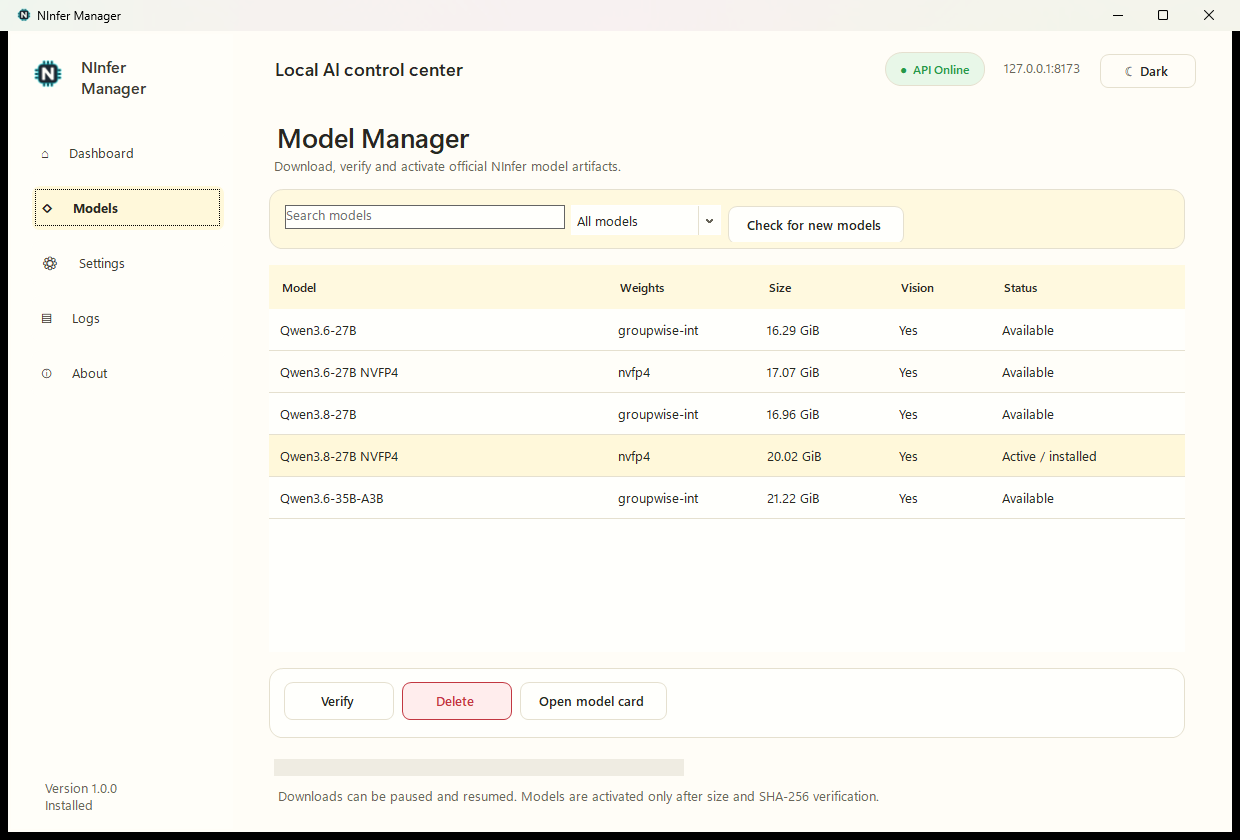
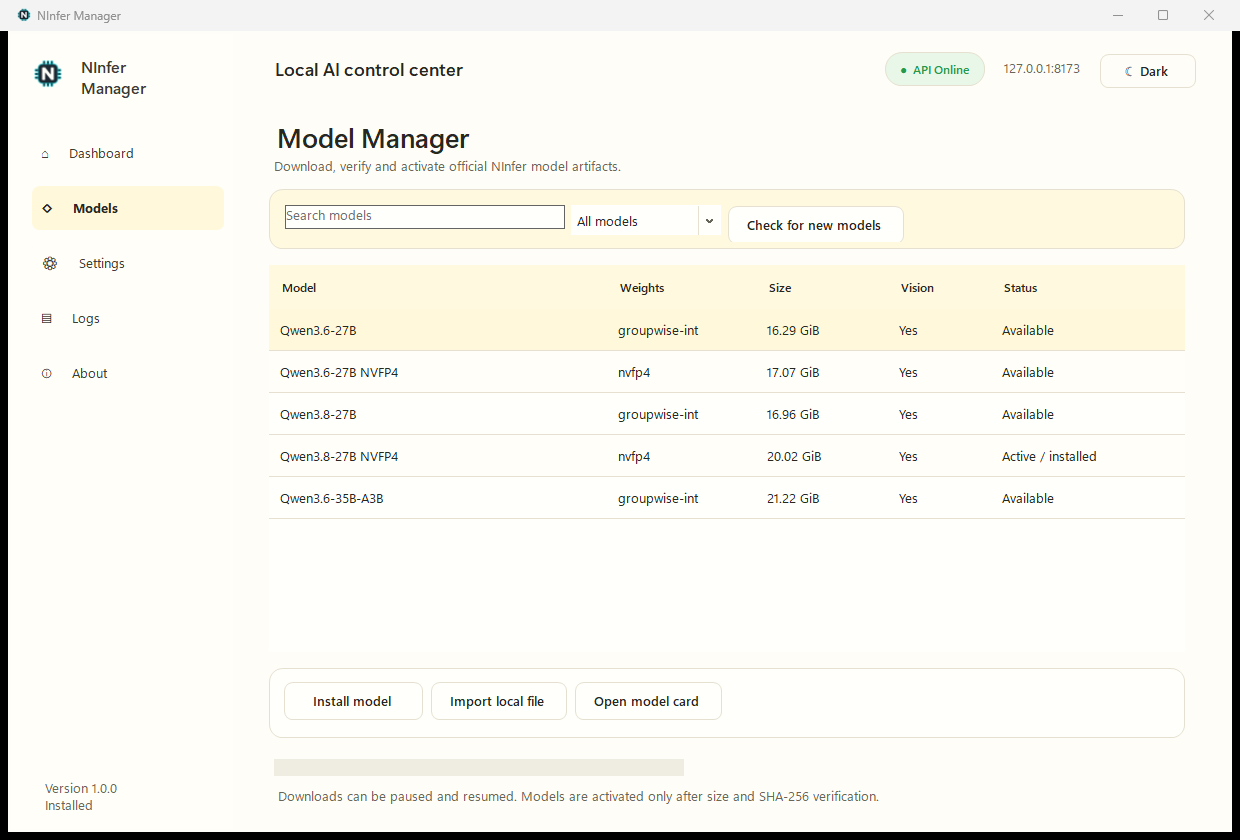
Expose model details before download

diff --git a/src/NInferManager/MainForm.cs b/src/NInferManager/MainForm.cs
@@ -49,6 +49,7 @@ internal sealed class MainForm : Form
     private readonly ProgressBar _modelProgress = new ThemedProgressBar { Dock = DockStyle.Fill, Height = 12 };
     private readonly Label _modelProgressText = UiTheme.Role(new Label { Dock = DockStyle.Fill, TextAlign = ContentAlignment.MiddleLeft, AutoEllipsis = true }, ThemeRole.MutedText);
     private readonly Button _installButton = Button("Install / Resume");
+    private readonly Button _importButton = Button("Import local file");
     private readonly Button _cancelDownloadButton = Button("Pause", false);
     private readonly Button _setActiveButton = Button("Set active");
     private readonly Button _verifyButton = Button("Verify");
@@ -335,6 +336,7 @@ internal sealed class MainForm : Form
         _modelActionsCard.Dock = DockStyle.Top; _modelActionsCard.Height = 72; _modelActionsCard.Padding = new Padding(12, 9, 12, 9);
         var actions = new FlowLayoutPanel { Dock = DockStyle.Fill, WrapContents = false, Padding = new Padding(0, 2, 0, 0) };
         _installButton.Click += async (_, _) => await StartDownloadAsync(); actions.Controls.Add(_installButton);
+        _importButton.Click += async (_, _) => await RunButtonActionAsync(_importButton, ImportSelectedAsync); actions.Controls.Add(_importButton);
         _cancelDownloadButton.Click += (_, _) => _downloadCancellation?.Cancel(); actions.Controls.Add(_cancelDownloadButton);
         _setActiveButton.Click += async (_, _) => await RunButtonActionAsync(_setActiveButton, SetSelectedActiveAsync); actions.Controls.Add(_setActiveButton);
         _verifyButton.Click += async (_, _) => await RunButtonActionAsync(_verifyButton, VerifySelectedAsync); actions.Controls.Add(_verifyButton);
@@ -344,7 +346,7 @@ internal sealed class MainForm : Form
         var progress = new TableLayoutPanel { Dock = DockStyle.Fill, ColumnCount = 2, AutoSize = true };
         progress.ColumnStyles.Add(new ColumnStyle(SizeType.Percent, 45)); progress.ColumnStyles.Add(new ColumnStyle(SizeType.Percent, 55));
         progress.Controls.Add(_modelProgress, 0, 0); progress.Controls.Add(_modelProgressText, 1, 0); root.Controls.Add(progress, 0, 4);
-        root.Controls.Add(UiTheme.Role(new Label { Text = "Downloads can be paused and resumed. Models are activated only after size and SHA-256 verification.", AutoSize = true, Padding = new Padding(4, 5, 0, 0) }, ThemeRole.MutedText), 0, 5);
+        root.Controls.Add(UiTheme.Role(new Label { Text = "Review the model card before installing. Downloads can be resumed, and models activate only after size and SHA-256 verification.", AutoSize = true, Padding = new Padding(4, 5, 0, 0) }, ThemeRole.MutedText), 0, 5);
         page.Controls.Add(root); return page;
     }
 
@@ -629,12 +631,14 @@ internal sealed class MainForm : Form
         _installButton.AccessibleName = _installButton.Text;
         _installButton.Visible = !installed && !downloading;
         _installButton.Enabled = _downloadCancellation is null;
+        _importButton.Visible = !installed && !downloading;
+        _importButton.Enabled = _downloadCancellation is null;
         _cancelDownloadButton.Visible = downloading;
         _cancelDownloadButton.Enabled = downloading;
         _setActiveButton.Visible = installed && !active;
         _verifyButton.Visible = installed;
         _deleteButton.Visible = installed;
-        _openModelCardButton.Visible = installed;
+        _openModelCardButton.Visible = true;
     }
 
     private async Task StartDownloadAsync()

diff --git a/src/NInferManager/ModelDownloadService.cs b/src/NInferManager/ModelDownloadService.cs
@@ -125,6 +125,8 @@ internal sealed class ModelDownloadService : IDisposable
         var temp = target + ".importing";
         File.Copy(sourcePath, temp, true);
         File.Move(temp, target, true);
+        var part = target + ".part";
+        if (File.Exists(part)) File.Delete(part);
         _logger.Write($"Model imported: {entry.FileName}");
     }
 

diff --git a/docs/USER_GUIDE.md b/docs/USER_GUIDE.md
@@ -32,10 +32,11 @@ returns an empty `/v1/models` list until a model is activated.
 
 ## Models
 
-The action area follows the selected model. An unavailable model shows only
-**Install model**; a partial download shows **Resume download**; an active
-download shows **Pause**; and installed models show only the applicable
-activate, verify, delete and model-card actions.
+The action area follows the selected model. An unavailable model shows
+**Install model** and **Import local file**; a partial download shows
+**Resume download** and **Import local file**; an active download shows **Pause**; and installed models
+show only the applicable activate, verify and delete actions. **Open model
+card** is always available so details and licensing can be reviewed before downloading.
 
 - **Install / Resume** downloads from the model's official Hugging Face
   repository and resumes an interrupted `.part` file.
